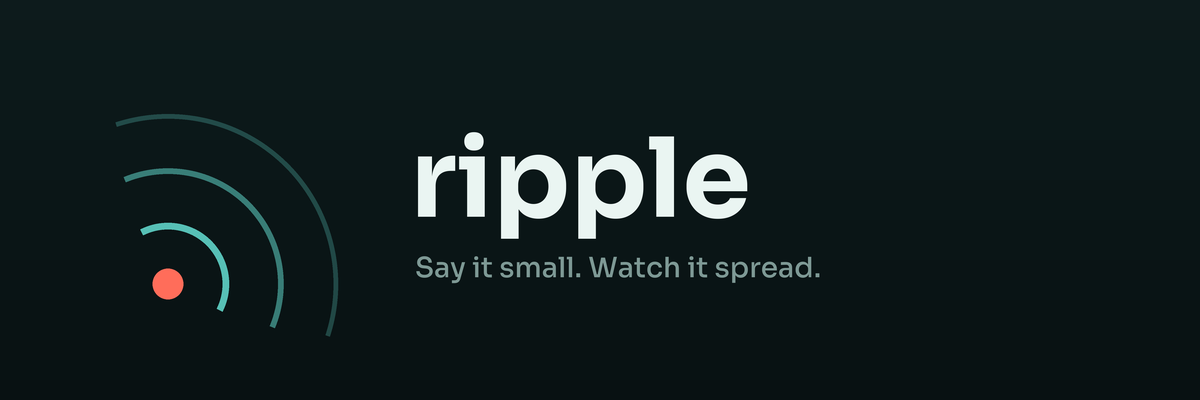
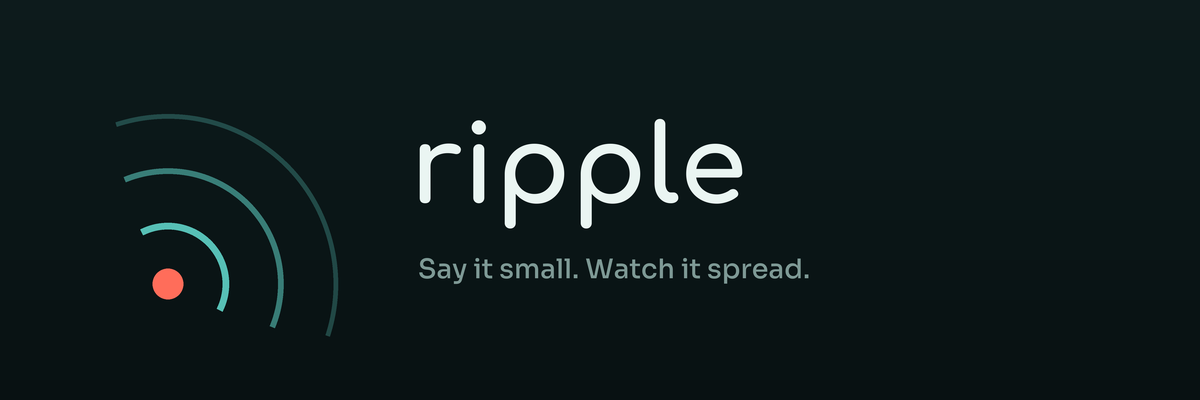
Refactor authentication and notification systems: Improve token handling, enhance logout functionality, and update user notifications. Revise README for clearer integration test instructions and API route details. Implement security enhancements and optimize database schema for new features.

Changed region(s): [[0.3392, 0.3, 0.6475, 0.6], [0.3392, 0.63, 0.6783, 0.72]]

diff --git a/mobile/src/app/_layout.tsx b/mobile/src/app/_layout.tsx
@@ -4,6 +4,7 @@ import {
   AtkinsonHyperlegible_400Regular,
   AtkinsonHyperlegible_700Bold,
 } from '@expo-google-fonts/atkinson-hyperlegible';
+import { Comfortaa_700Bold } from '@expo-google-fonts/comfortaa';
 import { Sora_500Medium, Sora_600SemiBold, Sora_700Bold } from '@expo-google-fonts/sora';
 import { focusManager, QueryClient, QueryClientProvider } from '@tanstack/react-query';
 import { useFonts } from 'expo-font';
@@ -60,6 +61,7 @@ export default function RootLayout() {
     Sora_500Medium,
     Sora_600SemiBold,
     Sora_700Bold,
+    Comfortaa_700Bold,
     AtkinsonHyperlegible_400Regular,
     AtkinsonHyperlegible_700Bold,
   });

diff --git a/mobile/src/components/ui.tsx b/mobile/src/components/ui.tsx
@@ -12,7 +12,10 @@ import { colors } from '../lib/theme';
 
 export function Wordmark({ size = 34 }: { size?: number }) {
   return (
-    <Text className="font-displaybold text-foam" style={{ fontSize: size, letterSpacing: -1 }}>
+    <Text
+      className="font-wordmark text-foam"
+      style={{ fontSize: size, letterSpacing: size * -0.02 }}
+    >
       ripple
     </Text>
   );

diff --git a/mobile/tailwind.config.js b/mobile/tailwind.config.js
@@ -22,6 +22,7 @@ module.exports = {
         glint: '#5FD3C7',
       },
       fontFamily: {
+        wordmark: ['Comfortaa_700Bold'],
         display: ['Sora_600SemiBold'],
         displaybold: ['Sora_700Bold'],
         displaymed: ['Sora_500Medium'],
